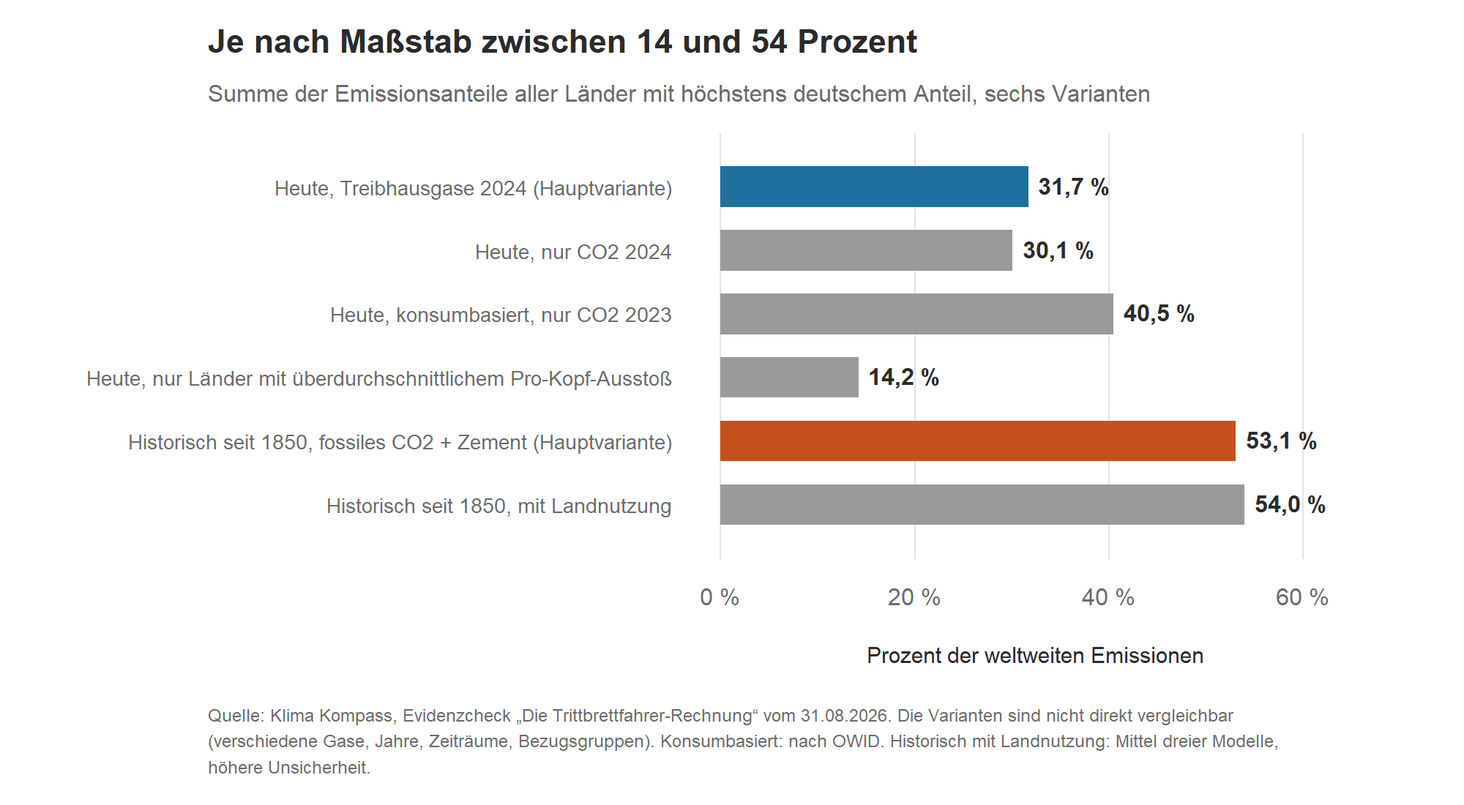
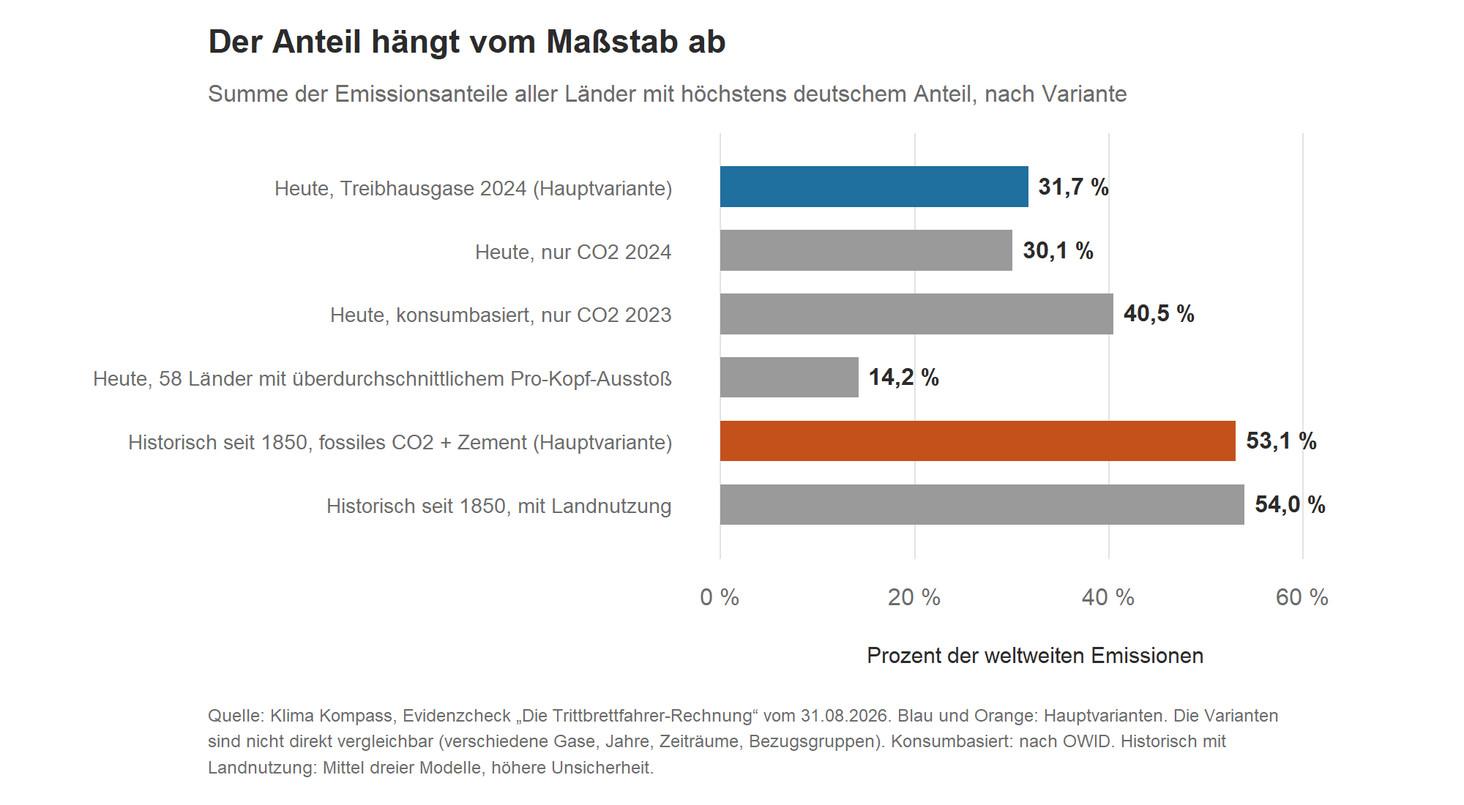
Jahrbuch 2026: Faktencheck Kapitel 5 (ok mit Auflagen, 9 Auflagen), Kapitel 5 v0.2 mit allen Auflagen, Grafiken angepasst
Nachpruefung ausstehend.

diff --git a/Publikationen-oeffentlich/jahrbuch-2026/pruefung/faktencheck_kap05.md b/Publikationen-oeffentlich/jahrbuch-2026/pruefung/faktencheck_kap05.md
@@ -1,0 +1,214 @@
+# Faktencheck Kapitel 5 (Jahrbuch 2026): „Ist Deutschland ‚zu klein, um zu zählen‘?“
+
+**Geprüfte Datei:** `Publikationen-oeffentlich/jahrbuch-2026/kapitel/05-zu-klein.md` (Entwurf v0.1, 23.10.2026). Nicht verändert. Zeilenangaben „Z.“ beziehen sich auf diese Fassung (Herkunftstabelle ab Z. 80 ist nicht Buchtext).
+**Geprüfte Grafiken:** `grafiken/kap05_grafik1_konzentrationskurve.png`, `grafiken/kap05_grafik2_varianten.png` (als Bilder gelesen) und `grafiken/kap05_grafiken.R`.
+**Prüfdatum:** 23.10.2026
+**Prüfer:** Subagent `faktenpruefer` (unabhängig, nicht Autor des Entwurfs)
+**Dieses Dokument enthält keinen Freigabevermerk.** Gate laut `kapitelplan.md` Abschnitt 5: volle Faktencheck-Datei für „Kurz gesagt“, „Was heißt das für dich?“, „Lagen wir richtig?“; Differenzprüfung für den Haupttext. Regel: keine neue Berechnung, keine neue Inferenz; der Stil darf nichts verändern, verstärken oder abschwächen (`stilregeln.md`).
+**Stufe der Ausgangsstücke:** [1] ist ein Evidenzcheck (SAP v1.0 eingefroren 31.08.2026, Validierung mit Nachkontrolle „FREIGABE“), [2] eine Einordnung (Faktencheck `Reports/2026-10-19-cop31-trittbrettfahrer/faktencheck.md`, Endstand „ok, keine Restauflagen“).
+
+## 1. Geprüfte Quellen und Zugriff
+
+| Quelle | Zugriff | Ergebnis |
+|---|---|---|
+| [1] „Die Trittbrettfahrer-Rechnung …“, Referenzfassung `quellen-artikel/2026-08-31_die-trittbrettfahrer-rechnung-was.html` (Abruf 22.10.2026) | gelesen (vollständig) | Abgleich vollständig; keine Korrektur- oder Aktualisierungsnotiz in der Referenzfassung |
+| [2] „COP31: Ist Deutschland ‚zu klein, um zu zählen‘?“, Referenzfassung `quellen-artikel/2026-10-19_cop31-ist-deutschland-zu-klein-um.html` | gelesen (vollständig) | Abgleich vollständig |
+| `Analysen/2026-08-trittbrettfahrer-rechnung/output/`: `estimand1a_konzentrationskurve_edgar_2024.csv` (Zeilen 1–30 und 200–210), `estimand2_kernzahlen.csv`, `estimand3_pro_kopf.csv`, `sensitivitaeten_1_2_3.csv`, `sensitivitaet4_rank_sensitivity.csv` | gelesen | 208 Länder (Rang 208, kumuliert 1); Rang 12 = DEU, Anteil 1,3007 %, kumuliert 69,64 %; kumuliert bis Rang 11 = 68,34 %; Kernzahlen 1,3/12/208/31,7 und 5,3/4/214/53,1; Pro-Kopf 14,2 % (Welt), 21,0 % (Teilmenge, Rang 8 von 58); S1 1,5/30,1; S2 2,1/40,5; S3 3,5/54,0; Rangplatz-Tabelle 30,0/41,4/69,6/79,5/86,0 und 24,2/24,2/52,1/75,4/85,1 |
+| `run_log.txt` (Analyselauf 31.08.2026) | gelesen (vollständig) | 1,3007 %, Rang 12 von 208, 197 von 208 Ländern ≤ DE; OWID-Abweichung 0,089 Punkte; Pro-Kopf 8,07/6,36, 58 von 195; Weltsumme = Summe der 208 Länder, ohne internationalen Luft- und Seeverkehr (2,62 % der Ländersumme) |
+| `Validierungsbericht.md` (Erstprüfung) und `Validierungsbericht_Nachkontrolle.md` | gelesen (vollständig) | Konverter-Fehler betraf 2b, S2, S3, S4 (2b-Teil); Nachkontrolle „FREIGABE“; 35,3 % (falsch), 59,1 % (Teilkorrektur), 53,1 % (final) |
+| `rohdaten/DATENAUFBEREITUNG_LOG.txt` (Zeilen 1–80) | gelesen (Anfang) | Konverter-Korrektur dokumentiert; EDGAR „2025 GHG booklet“ mit URL |
+| `Reports/2026-10-19-cop31-trittbrettfahrer/faktencheck.md` | gelesen (vollständig) | Frühere Prüfung von [2]; entfernte Inferenzen („vor allem …“, „bliebe unberührt“, „kaum“, „häufig“, „meist“) |
+| GitHub `Analysen/2026-08-trittbrettfahrer-rechnung` (Commit-Liste) | WebFetch 23.10.2026 | letzter Commit 31.08.2026 („Substack-Entwurf überarbeitet“); danach keine Änderung |
+| Quelle [3] Helmholtz-Klima-Initiative | WebFetch 23.10.2026 | Titel stimmt; „zuletzt aktualisiert: April 2021“; „Alle CO2-Angaben … beziehen sich … auf das Jahr 2017“; Zwei-Prozent-Rechnung formuliert über Treibhausgas-Emissionen (Welt: „deutlich über 35 Milliarden Tonnen“), Datenjahr dort nicht angegeben |
+| Quelle [4] WirtschaftsWoche | WebFetch 23.10.2026 | Titel und Datum 24.02.2026 stimmen; CO₂ 2024: „Anteil von 1,46 Prozent“ (579,9 Mt, EDGAR); THG 2024: „globalen Anteil von 1,27 Prozent“ (0,67 Gt CO₂-Äq.) |
+| Quelle [6] UNFCCC Overview Schedule (PDF) | WebFetch 23.10.2026 | „UN Climate Change Conference - Antalya“, sessional period 9.–20.11.2026, pre-sessional 2.–8.11.2026; Stand 7.10.2026; Zeitplan laut Dokument vorläufig |
+| EDGAR, Global Carbon Project, Weltbank, OWID (Primärdaten) | nicht direkt geöffnet | nur über CSV, run_log und Validierungsberichte abgedeckt |
+
+## 2. Tabelle der Behauptungen
+
+Legende: bestätigt / Abweichung / nicht prüfbar / kritisch. Im Zweifel „Abweichung“. A-Nummern verweisen auf die Auflagen in Abschnitt 4, E-Nummern auf die Empfehlungen in Abschnitt 5.
+
+### 2.1 Kurz gesagt (Z. 5)
+
+| Nr. | Behauptung | Quelle | Ergebnis | Hinweis |
+|---|---|---|---|---|
+| 1 | „Deutschland verursachte 2024 rund 1,3 Prozent der weltweiten Treibhausgasemissionen (Rang 12 von 208).“ | [1], [2], CSV (1,3007 %), run_log | bestätigt | Die „Weltsumme“ ist die Summe der 208 Länder ohne internationalen Luft- und Seeverkehr (run_log: zusammen 2,62 % der Ländersumme). Das steht in [1] nicht. E1. |
+| 2 | „alle Länder, deren Anteil so klein oder kleiner ist, kommen zusammen auf fast ein Drittel der weltweiten Emissionen (31,7 Prozent).“ | [1], [2], CSV (1 − 0,6834 = 31,7 %), run_log (197 von 208) | bestätigt | „fast ein Drittel“ ist reine Rundung von 31,7 %. |
+| 3 | „Würden sie alle sagen „wir sind zu klein, um zu zählen“, fiele dieses Drittel gemeinsam darunter.“ | [2] (wörtlich) | bestätigt | Gedecktes Gedankenexperiment; keine Wirkungsbehauptung. |
+| 4 | „Das ist ein Gedankenexperiment und keine Schuldfrage.“ | [1], [2] („Keine Schuldfrage“, „Gedankenexperiment“) | bestätigt | |
+
+### 2.2 Das Argument (Z. 9–11)
+
+| Nr. | Behauptung | Quelle | Ergebnis | Hinweis |
+|---|---|---|---|---|
+| 5 | „In der deutschen Klimadebatte taucht immer wieder dasselbe Argument auf …“ | [1] („taucht immer wieder ein bestimmtes Argumentmuster auf“), [2] | bestätigt | „dasselbe“ statt „ein bestimmtes Argumentmuster“ ist unkritisch. Häufigkeit wird in [1] ausdrücklich nicht untersucht; „immer wieder“ steht wortgleich in [1]/[2]. |
+| 6 | „Wer das wann sagt, haben wir nicht untersucht. Wir nennen weder Personen noch Parteien.“ | [1] („dazu wurden keine Daten erhoben, … keine Personen, Parteien oder Organisationen benannt“) | bestätigt | Das Kapitel nennt später Organisationen (Helmholtz, WiWo) als Quellen, nicht als Urheber des Arguments; kein Widerspruch. |
+| 7 | „Wenn ein kleiner Anteil ein Grund ist, nichts zu tun: Was passiert, wenn alle Länder … dieselbe Logik anwenden? Wie viel der weltweiten Emissionen fiele dann gemeinsam unter „zu klein, um zu zählen“?“ | [1], [2] („Die Frage dahinter“) | bestätigt | |
+
+### 2.3 Die Rechnung (Z. 15–26)
+
+| Nr. | Behauptung | Quelle | Ergebnis | Hinweis |
+|---|---|---|---|---|
+| 8 | „… in der „Trittbrettfahrer-Rechnung“ vom 31. August 2026 durchgerechnet, mit vorab festgelegtem Analyseplan und unabhängiger Validierung [1].“ | [1], [2], run_log (SAP v1.0 eingefroren 31.08.2026), Validierungsberichte, GitHub-Commits | bestätigt | |
+| 9 | „… zwei Zeithorizonte getrennt betrachtet. Beide sind gleichrangig“ | [1] | bestätigt | |
+| 10 | „Heute: … Treibhausgasemissionen des Jahres 2024 liegt Deutschland laut der EU-Datenbank EDGAR bei 1,3 Prozent, auf Rang 12 von 208 Ländern.“ | [1], CSV `estimand2_kernzahlen.csv` | bestätigt | |
+| 11 | „Alle Länder mit einem Anteil von höchstens 1,3 Prozent kommen zusammen auf 31,7 Prozent der weltweiten Jahresemissionen.“ | [1], [2], CSV | bestätigt | Schwelle ist der ungerundete deutsche Anteil (1,3007 %); Mexiko (Rang 11, 1,325 %) rundet ebenfalls auf 1,3 und ist nicht enthalten. Die Kurzform „höchstens 1,3 Prozent“ steht so in [1] und [2]. E2. |
+| 12 | „Historisch: … seit 1850 aufsummierten CO₂-Emissionen aus fossilen Brennstoffen und Zement (Global Carbon Project), liegt Deutschland mit 5,3 Prozent auf Rang 4 von 214. Alle Länder bis zu diesem Anteil kommen zusammen auf 53,1 Prozent.“ | [1], [2], CSV (5,3 / 4 / 214 / 53,1), Nachkontrolle | bestätigt | 53,1 % ist der nach dem Konverter-Fix validierte Wert (nicht 35,3 % oder 59,1 %). |
+| 13 | „Die beiden Zahlen … sind nicht direkt vergleichbar … (alle Treibhausgase gegen nur CO₂ aus fossilen Quellen und Zement) und verschiedenen Zeiträumen (ein Jahr gegen 175 Jahre). Keine von beiden ist „die“ Kernzahl.“ | [1] (Hinweis zur Vergleichbarkeit) | bestätigt | |
+| 14 | Grafik-1-Bildunterschrift: „Alle 208 Länder, absteigend nach Emissionsanteil sortiert, mit dem kumulierten Anteil. Deutschland (Rang 12) ist markiert.“ | CSV (208 Zeilen, Rang 12 = DEU), Skript `stopifnot` | bestätigt | Siehe Grafikprüfung G1–G6. |
+| 15 | „Die eigentliche Hauptaussage der Analyse ist nicht eine einzelne Prozentzahl, sondern diese Kurve. Deutschlands Position ist darin markiert, aber nicht besonders behandelt.“ | [1] („nicht methodisch privilegiert“) | bestätigt | |
+| 16 | „Dass wir die Grenze genau bei Deutschland ziehen, ergibt sich aus der Debatte, nicht aus einem statistischen Kriterium.“ | [1], [2] | bestätigt | |
+
+### 2.4 Wie empfindlich das Ergebnis ist (Z. 30–41)
+
+| Nr. | Behauptung | Quelle | Ergebnis | Hinweis |
+|---|---|---|---|---|
+| 17 | „Verschiebt man die Grenze um wenige Ränge, ändert sich die Summe deutlich. Das Bild … ist deshalb kein festes Ergebnis. Es hängt davon ab, wo man die Linie zieht.“ | [1] (Rangplatz-Sensitivität), [2]; `sensitivitaet4_rank_sensitivity.csv` | bestätigt | Gedeckt: kumulierter Anteil der größten Emittenten bei Rang DE: 69,6 %, bei DE+10 (Rang 22): 79,5 %, bei DE+20 (Rang 32): 86,0 %; historisch 52,1 / 75,4 / 85,1 %. „Wenige Ränge“ meint in der Tabelle 10 bzw. 20 Ränge; die Untergrenzen DE−10/−20 sind durch Rang 1 abgeschnitten (2a: Rang 1 und 2; 2b: beide Rang 1). Die Tabelle zeigt den Anteil der **größten** Emittenten, die Übertragung auf die „Summe der kleinen Länder“ ist die von [1]. Das Kapitel nennt keine Zahlen (E3). |
+| 18 | „Dazu kommen Varianten, die wir vorab festgelegt haben [1]“ | [1] („alle vorab im SAP festgelegt“); run_log | bestätigt | Die Pro-Kopf-Rechnung ist im SAP ein eigener Estimand (Abschn. 2), keine Sensitivität; „Variante“ ist unscharf, aber vorab festgelegt. |
+| 19 | Grafik-2-Bildunterschrift: „Die Varianten sind nicht direkt vergleichbar (verschiedene Gase, Jahre, Zeiträume).“ | [1] | Abweichung (gering) | Die Grafik selbst nennt zusätzlich „Bezugsgruppen“; die Bildunterschrift im Buch nicht. Die Pro-Kopf-Variante hat eine andere Bezugsgruppe (A6). |
+| 20 | „Nur CO₂ statt aller Treibhausgase (2024): Deutschlands Anteil liegt bei 1,5 Prozent, alle Länder bis dahin kommen auf 30,1 Prozent (statt 31,7).“ | [1], [2], CSV (S1: 1,5 / 30,1), run_log (1,5134 %, Rang 10) | bestätigt | |
+| 21 | „Konsumbasiert statt produktionsbasiert (CO₂, 2023): … Deutschlands Anteil liegt dann bei 2,1 Prozent, alle Länder bis dahin kommen auf 40,5 Prozent. Diese Werte sind nicht direkt vergleichbar mit den 31,7 Prozent, weil Gase und Jahr abweichen.“ | [1], [2], CSV (S2: 2,1 / 40,5), run_log (OWID, 2023, 120 Länder) | bestätigt | Basis nur 120 Länder mit Wert (steht in [1] nicht; kein Fehler). Die Erklärung „Emissionen dort, wo die Güter verbraucht werden“ entspricht [1]/[2]. |
+| 22 | „Historisch mit Landnutzung: … (Mittel dreier Modelle), liegt Deutschlands Anteil bei 3,5 Prozent und die Summe bei 54,0 Prozent (statt 53,1). Diese Teilkomponente ist modellunsicherer.“ | [1] („Mittel dreier GCP-Modelle … höhere Modellunsicherheit“), CSV (S3: 3,5 / 54,0) | bestätigt | Der automatisierte Plausibilitätscheck greift bei den LULUCF-Dateien nicht (Nachkontrolle, Punkt 2); die Zahl wurde unabhängig nachgerechnet. Nicht-Geprüftes, Abschnitt 6. |
+| 23 | „Pro Kopf: Deutschland hat mit 8,07 Tonnen CO₂-Äquivalent pro Person (2024) einen höheren Pro-Kopf-Ausstoß als der weltweite Durchschnitt (6,36 Tonnen).“ | [1], [2], run_log | bestätigt | |
+| 24 | „Um nicht mit einkommensschwachen Ländern zu vermischen, haben wir die Rechnung nur für die 58 Länder durchgeführt, die pro Kopf über dem Durchschnitt liegen.“ | [1] („zusätzlich auf die Teilmenge … beschränkt“; 58 von 195 mit Pro-Kopf-Wert) | bestätigt | „nur“ statt „zusätzlich“: Es ist eine zusätzliche Rechnung, nicht die einzige. Im Zusammenhang unkritisch; die Hauptrechnung steht oben. Die 195 (13 Länder ohne Bevölkerungswert, 0,74 % der Emissionen) sind im Kapitel nicht genannt. |
+| 25 | „Dort steht Deutschland auf Rang 8.“ | [1], run_log (1,92 % der Teilmenge, Rang 8 von 58) | bestätigt | |
+| 26 | „Die Länder dieser Gruppe mit einem Anteil bis zum deutschen kommen auf 14,2 Prozent der weltweiten Emissionen.“ | [1], [2], CSV (14,2 % der Weltsumme; 21,0 % der Teilmenge) | bestätigt | Korrekt als Anteil an der Weltsumme bezeichnet. Der Anteil an der Teilmenge (21,0 %) ist weggelassen (kein Fehler). Bezugsgruppe ≠ übrige Varianten (A6). |
+
+### 2.5 Warum anderswo andere Zahlen stehen (Z. 45)
+
+| Nr. | Behauptung | Quelle | Ergebnis | Hinweis |
+|---|---|---|---|---|
+| 27 | „Oft liest man „rund zwei Prozent“.“ | [3] nennt die Zahl in der Überschrift; keine Häufigkeitsbelege | Abweichung | „Oft“ ist eine Häufigkeitsbehauptung ohne Beleg. Der Faktencheck zu [2] hatte „häufig“/„meist“ beanstandet und beide Wörter wurden gestrichen; hier sind sie in anderer Form wieder da. A2. |
+| 28 | „Die Helmholtz-Klima-Initiative prüft diese Behauptung auf Basis von Daten, die laut der Seite aus dem Jahr 2017 stammen (Stand April 2021) [2][3].“ | [3] (Abruf 23.10.2026); [2] | Abweichung (gering) | Stand April 2021 bestätigt. „2017“ nennt die Seite nur für die **CO₂-Angaben**; die Zwei-Prozent-Rechnung ist als Treibhausgas-Anteil formuliert, deren Datenjahr nicht angegeben ist (Faktencheck zu [2], Nachtrag 2: „überwiegend“ oder „laut Seite“). A2. |
+| 29 | „Die WirtschaftsWoche nennt für 2024 einen CO₂-Anteil von 1,46 Prozent, für alle Treibhausgase dagegen 1,27 Prozent [4].“ | [4] (Abruf 23.10.2026), [2] | bestätigt | Beide Werte, Jahr und Titel/Datum stimmen. |
+| 30 | „In unserer Rechnung liegt der deutsche Anteil bei reinem CO₂ bei 1,5 Prozent, mit allen Treibhausgasen bei 1,3.“ | [1], [2], CSV | bestätigt | |
+| 31 | „Die Unterschiede kommen von verschiedenen Jahren und Gasen [1][2][3][4].“ | – (Herkunftstabelle: „Schluss aus den Quellenangaben, zu prüfen“) | Abweichung | Neue Ursachenzuschreibung, nicht in [1]–[4]. Gegenbefund: WiWo (1,46 / 1,27) und unsere Zahlen (1,5 / 1,3) beziehen sich auf **dasselbe Jahr (2024)**; die Werte stimmen nach Rundung überein (1,46 → 1,5; 1,27 → 1,3). Der Unterschied zu „rund zwei Prozent“ ist mit veröffentlichten Ergebnissen nicht zerlegbar (Datenjahr der THG-Basis bei Helmholtz unbekannt, Rechnung teils mit anderem Zähler). Genau diese Ursachengewichtung wurde im Faktencheck zu [2] (Nachtrag 1, N1) als neue Inferenz beanstandet und gestrichen. A1. |
+
+### 2.6 Was die Zahlen nicht sagen (Z. 49–51)
+
+| Nr. | Behauptung | Quelle | Ergebnis | Hinweis |
+|---|---|---|---|---|
+| 32 | „Keine Schuldfrage. Die Rechnung ist ein Gedankenexperiment. Sie sagt nichts darüber, welches Land wie viel Verantwortung trägt oder was fair wäre. Sie bewertet auch nicht, ob ein hoher oder niedriger Anteil an Klimapolitik, Wirtschaftsstruktur, Bevölkerungszahl oder am Zufall der Ländergrenzen liegt [1].“ | [1] („Was diese Zahlen nicht bedeuten“), [2] | bestätigt | |
+| 33 | „Produktion, nicht Konsum. Die Hauptzahlen zählen Emissionen dort, wo sie entstehen.“ | [1], [2] | bestätigt | |
+| 34 | „Für Länder mit hohen Importen emissionsintensiver Güter kann die konsumbasierte Zahl spürbar höher liegen, wie die Variante oben zeigt [1].“ | [1] („kann … spürbar höher liegen (siehe Sensitivität unten)“) | Abweichung | [1] verweist auf die Sensitivität, sagt aber nicht, dass sie es „zeigt“. Die Variante ist laut dem Kapitel selbst „nicht direkt vergleichbar“ (andere Gase, anderes Jahr, 120 Länder, OWID); ein Beleg für „spürbar höher“ ist sie damit nicht. A7. |
+| 35 | „Nichts zur COP31. Vom 9. bis 20. November 2026 findet im türkischen Antalya die UN-Klimakonferenz COP31 statt [6].“ | [6] (geöffnet), [2] | bestätigt (Stand 7.10.2026) | Der Zeitplan ist laut Dokument vorläufig. Das Buch erscheint am 1.12.2026, nach dem Konferenzende: Zeitform und Stand (A8, E5). |
+| 36 | „Was dort verhandelt wird und welche Zusagen die Staaten machen, beantwortet diese Rechnung nicht [2].“ | [2] („Nichts zur COP31 selbst“) | bestätigt | |
+
+### 2.7 Was heißt das für dich? (Z. 55–57)
+
+| Nr. | Behauptung | Quelle | Ergebnis | Hinweis |
+|---|---|---|---|---|
+| 37 | „Ein Anteil in Prozent lässt sich erst einordnen, wenn klar ist, worauf er sich bezieht: auf welches Jahr, auf welche Gase und darauf, ob Emissionen dort gezählt werden, wo sie entstehen, oder dort, wo die Güter verbraucht werden.“ | [1] (Vergleichbarkeitshinweise), Gliederung | bestätigt | Beschreibend, in den Quellen angelegt (Jahr, Gasbasis, produktions-/konsumbasiert). |
+| 38 | „Wer Prozentzahlen aus verschiedenen Quellen vergleicht, sollte prüfen, ob sie auf derselben Basis stehen.“ | [1] | bestätigt | |
+| 39 | „Hinter „zwei Prozent“, „1,5 Prozent“ und „1,3 Prozent“ stecken keine Widersprüche, sondern verschiedene Maßstäbe.“ | – | Abweichung | Neue Feststellung. „Zwei Prozent“ (Helmholtz) und „1,5 Prozent“ (nur CO₂, 2024, unsere Variante bzw. WiWo-CO₂-Wert) sind nach den Quellen nicht auf Maßstabsunterschiede zurückgeführt (Nr. 31). „Keine Widersprüche“ ist eine Wertung, die kein Beleg trägt (zum Beispiel ist die Gasbasis bei Helmholtz uneinheitlich). A1. |
+| 40 | „„Zu klein, um zu zählen“ funktioniert als Argument nur, solange es nicht alle sagen. Ob ein einzelner Anteil zählt, hängt auch davon ab, wie viele andere in derselben Lage sind. Ob daraus eine Pflicht zum Handeln folgt, beantwortet die Rechnung nicht.“ | [2] (Fazit: „Unser Gedankenexperiment legt nahe: ‚Zu klein, um zu zählen‘ funktioniert nur, solange es nicht alle sagen. … Ob ein einzelner Anteil zählt, ist deshalb auch eine Frage danach, wie viele andere in derselben Lage sind.“) | Abweichung | Gegenüber [2] fehlt die Kennzeichnung als Deutung („Unser Gedankenexperiment legt nahe:“); der Faktencheck zu [2] (#24) hatte genau diese Kennzeichnung verlangt. Zusätzlich neu: „als Argument“ und „Pflicht zum Handeln“ (in [1]/[2] nicht vorhanden, [1] bewertet kein Handeln und keine Verantwortung). Der Satz bewertet in „Was heißt das für dich?“ ein politisches Argument. A3. |
+
+### 2.8 Lagen wir richtig? (Z. 61–63)
+
+| Nr. | Behauptung | Quelle | Ergebnis | Hinweis |
+|---|---|---|---|---|
+| 41 | „Seit der Veröffentlichung am 31. August haben wir keine Änderungen an den Kernzahlen vorgenommen.“ | GitHub-Commit-Liste (letzter Commit im Ordner 31.08.2026), Referenzfassung [1] vom 22.10. ohne Korrekturhinweis, CSV | bestätigt | Belegt über die öffentliche Commit-Liste des Analyseordners und den unveränderten Artikeltext (WebFetch-Zusammenfassung, kein `git diff`). |
+| 42 | „Neuere EDGAR- oder GCP-Daten nennen wir nur mit Quelle und Datum und rechnen sie nicht neu.“ | Gliederung, Kapitelplan Abschn. 4 | bestätigt | Selbstverpflichtung; ob neuere EDGAR-/GCP-Veröffentlichungen vorliegen, wurde nicht geprüft (Abschnitt 6). |
+| 43 | „Die unabhängige Validierung fand in der ersten Prüfrunde einen kritischen Fehler in einem Datenkonverter.“ | [1] (Methodik-Box), `Validierungsbericht.md` | bestätigt | |
+| 44 | „Er führte zu einem falschen Zwischenwert für die historische Kernzahl.“ | [1] („führte zu einem falschen Zwischenwert für die historische Kernzahl“); `Validierungsbericht.md`, `DATENAUFBEREITUNG_LOG.txt` | Abweichung (gering) | Wortgleich zu [1], aber unvollständig: Laut Validierungsbericht und Provenienz-Log waren **auch** die konsumbasierte Variante, die Landnutzungsvariante und der historische Teil der Rangplatz-Rechnung betroffen. Der falsche Wert 35,3 % wurde nie veröffentlicht (Nachkontrolle: 59,1 % war nur Zwischenschätzung des Validators). A4. |
+| 45 | „Nach der Korrektur wurden alle Kernzahlen unabhängig neu berechnet und bestätigt.“ | [1] (wortgleich); Nachkontrolle | Abweichung (gering) | Nachkontrolle: 2b (53,1 %) und S3 (54,0 %) und der 2b-Teil von S4 unabhängig aus den Roh-CSV nachgerechnet; S2 (konsumbasiert) reproduziert; 1a/2a, Estimand 3, S1, S6 waren bereits in der Erstprüfung unabhängig validiert und unverändert. „Alle … nach der Korrektur neu berechnet“ trifft nur für die betroffenen Werte zu. A4. |
+| 46 | „Das ist keine nachträgliche Korrektur, zeigt aber, was die Prüfung leistet (mehr dazu in Kapitel 8).“ | – (Herkunftstabelle: „neu“) | Abweichung | „keine nachträgliche Korrektur“ ist richtig (Fund vor Veröffentlichung). „zeigt, was die Prüfung leistet“ ist eine Selbstbewertung ohne Beleg; Verweis auf Kapitel 8 nicht gegen Kapitel 8 prüfbar. A4. |
+| 47 | „COP31: Unsere Stücke machen keine Vorhersage zur Konferenz.“ | [1], [2] | bestätigt | |
+| 48 | „Einen Ergebnisblock nehmen wir nur auf, wenn bis zum 15. November eine belastbare Primärquelle vorliegt und der Text die Faktenprüfung besteht.“ | Gliederung Kap. 5, Entscheidung 2 (22.10.) | Abweichung | Interne Redaktionsregel, kein Buchtext. Außerdem sachlich schwer haltbar: Der 15.11. liegt mitten in der Konferenz (9.–20.11., [6]); ein Ergebnis kann dann nicht vorliegen. A8. |
+
+### 2.9 Woher wir das wissen und Quellenliste (Z. 67–76)
+
+| Nr. | Behauptung | Quelle | Ergebnis | Hinweis |
+|---|---|---|---|---|
+| 49 | „Aktuelle Jahresemissionen: EDGAR (… EU JRC), 2024, alle Treibhausgase in CO₂-Äquivalenten, 208 Länder.“ | [1] (Methodik-Box), run_log | bestätigt | |
+| 50 | „Kumulierte historische Emissionen: Global Carbon Project / Global Carbon Budget, territoriale fossile CO₂-Emissionen inklusive Zement, 1850–2024, 214 Länder.“ | [1], run_log | bestätigt | |
+| 51 | „Bevölkerung: Weltbank (World Development Indicators), 2024.“ | [1] | bestätigt | |
+| 52 | „Our World in Data nur als Sekundärquelle zur Kreuzprüfung des EDGAR-Ausgangswerts (Abweichung 0,089 Prozentpunkte) und für die konsumbasierte Variante.“ | [1], run_log (OWID 1,2119 % gegen EDGAR 1,3007 %) | bestätigt | |
+| 53 | „Zugriffsdatum aller Rohdaten: 31. August 2026.“ | [1], run_log, Provenienz-Log | bestätigt | |
+| 54 | „Die Analyse ist deskriptiv: keine p-Werte, keine Konfidenzintervalle. Sie deckt nahezu alle Länder ab. Die Robustheit zeigen die Varianten oben.“ | [1] | bestätigt | |
+| 55 | „Analyseplan, R-Skript, Rohdaten-Aufbereitungslog, alle Tabellen und Grafiken sowie beide Validierungsberichte liegen offen im Repository: `Analysen/2026-08-trittbrettfahrer-rechnung/` auf github.com/dsaure55/klima-evidenzcheck.“ | [1], GitHub (Commit-Liste: SAP, Analyse, Validierung, Nachkontrolle sichtbar) | bestätigt | |
+| 56 | Quelle [1]: Titel, Datum 31.08.2026, URL | [1] Referenzfassung (Titel, Slug) | bestätigt | Linkziel anhand der Referenzfassung (Abruf 22.10.2026, Titel und post_date) abgeglichen. |
+| 57 | Quelle [2]: „COP31: Ist Deutschland ‚zu klein, um zu zählen‘?“, 19.10.2026, URL | [2] Referenzfassung | bestätigt | |
+| 58 | Quelle [3]: Helmholtz-Klima-Initiative / klimafakten, Titel der Behauptung, „laut Seite Daten 2017, Stand April 2021“, URL | [3] geöffnet | bestätigt (mit Vorbehalt) | Titel und Stand stimmen; „Daten 2017“ gilt nur für die CO₂-Angaben (siehe Nr. 28). |
+| 59 | Quelle [4]: WirtschaftsWoche, Titel, 24.02.2026, URL | [4] geöffnet | bestätigt | |
+| 60 | Quelle [5]: Sammelzeile „EDGAR …; Global Carbon Project …; Weltbank …; Our World in Data (Zugriff 31.08.2026, wie in [1])“ | Provenienz-Log (z. B. EDGAR 2025 GHG booklet, URL) | Abweichung | Keine Ausgabe/Edition, keine Links. Das Provenienz-Log nennt Edition und URL (z. B. „EDGAR 2025 GHG booklet“, https://edgar.jrc.ec.europa.eu/booklet/EDGAR_2025_GHG_booklet_2025.xlsx). Als Verweis „wie in [1]“ nachvollziehbar, als eigenständige Quelle nicht ausreichend. A9. |
+| 61 | Quelle [6]: UNFCCC, COP 31 Overview Schedule, Antalya, 9.–20.11.2026, URL | [6] geöffnet | bestätigt | Dokumentstand 7.10.2026, vorläufig. E5. |
+
+## 3. Grafiken
+
+Geprüft: beide PNG als Bild, das R-Skript und die zugehörigen CSV. Grafik 1 liest die CSV direkt (208 Zeilen, `stopifnot(nrow == 208, code[12] == "DEU")`), Grafik 2 hat die sechs Werte fest eingetragen. Das Skript enthält keine Rechnung außer `cum11 = cum_share[11] × 100`.
+
+| Nr. | Punkt | Befund | Ergebnis | Hinweis |
+|---|---|---|---|---|
+| G1 | Grafik 1: Daten | Alle 208 Länder, absteigend; Kurve beginnt bei etwa 30 % (China 29,97 %) und endet bei 100 % (Rang 208 = 1) | bestätigt | Gegen CSV geprüft (erste und letzte Zeilen, Zeilenzahl). |
+| G2 | Grafik 1: „Deutschland: Rang 12, Anteil 1,3 %“ | Rang 12 = DEU, 1,3007 %, kumuliert 69,64 % (Punkt liegt bei ~69,6 %) | bestätigt | Die Aussage ist korrekt. |
+| G3 | Grafik 1: Linie „Die 11 größten Länder: 68,3 %. Deutschland und alle kleineren zusammen: 31,7 %“ | kumuliert bis Rang 11: 68,34 %; 100 − 68,34 = 31,66 → 31,7 %, identisch mit der Kernzahl 2a (Summe aller Länder mit Anteil ≤ DE, inkl. DE; 197 von 208 Ländern) | Abweichung (gering) | Rechnerisch richtig (das Ergebnis ist 1 − Kumulation bis Rang 11 = Kernzahl). Aber: (a) **68,3 %** steht weder in [1] noch in [2] (in [1] steht 69,6 % für Rang 12 inkl. Deutschland); die Bildunterschrift sagt „keine neue Rechnung“, die Zahl ist eine neue Darstellung einer CSV-Spalte. (b) Der Punkt Deutschland liegt bei ~69,6 %, die gestrichelte Linie bei 68,3 %, also sichtbar darunter, ohne Erklärung; Leser könnten einen Fehler oder die falsche Linie vermuten. A5. |
+| G4 | Grafik 1: Titel „Länder so klein wie Deutschland oder kleiner: fast ein Drittel“ | 31,7 % | bestätigt | Rundung „fast ein Drittel“ wie in [2]. |
+| G5 | Grafik 1: Achse „Kumulierter Anteil an den weltweiten Emissionen (%)“, Jahr, Gase, Quelle, Hinweis „Produktionsbasiert“, „Gedankenexperiment, keine Schuldfrage“ | Titel, Einheit, Datenstand (2024), Quelle vorhanden | bestätigt | Regel „Titel, Einheit, Datenstand, Quelle“ erfüllt. „weltweit“ = Summe der 208 Länder ohne Luft-/Seeverkehr (E1). „CO2“ statt „CO₂“ (E6). |
+| G6 | Grafik 2: Werte | 31,7 / 30,1 / 40,5 / 14,2 / 53,1 / 54,0 | bestätigt | Alle sechs Werte stimmen mit CSV, [1] und Kapitel überein. Balkenlängen proportional (Achse 0–60 %). |
+| G7 | Grafik 2: Beschriftung „Heute, nur Länder mit überdurchschnittlichem Pro-Kopf-Ausstoß“ = 14,2 % | 14,2 % ist der Anteil an den **weltweiten** Emissionen (Teilmenge: Länder mit Anteil ≤ DE **innerhalb** der 58 Länder); Anteil an der Teilmenge: 21,0 % | Abweichung | Die Zahl ist richtig (14,2 % der Welt), die Balkenbeschriftung nennt aber nur die Gruppe, nicht dass nur Länder aus dieser Gruppe mit höchstens deutschem Anteil gezählt sind. Untertitel „aller Länder mit höchstens deutschem Anteil“ stimmt für diesen Balken nicht ohne Zusatz (die Länder außerhalb der Gruppe sind ausgeschlossen). A6. |
+| G8 | Grafik 2: Farben | Blau = Hauptvariante „heute“, Orange = Hauptvariante „historisch“, Grau = weitere Varianten; erklärt nur über den Zusatz „(Hauptvariante)“ in den Zeilenbeschriftungen | bestätigt (mit Hinweis) | Verständlich genug über die Beschriftung; kein Legendeneintrag. In Grafik 1 haben Blau und Orange eine andere Bedeutung (Deutschland, Grenze). E6. |
+| G9 | Grafik 2: Titel „Je nach Maßstab zwischen 14 und 54 Prozent“ | Spannweite aus sechs Werten mit verschiedenen Gasen, Jahren, Zeiträumen und Bezugsgruppen | Abweichung | Der Titel suggeriert eine Spannweite derselben Größe („je nach Maßstab“). [1] weist ausdrücklich darauf hin, dass die Werte nicht direkt vergleichbar sind und keine der Zahlen „die“ Kernzahl ist; die Pro-Kopf-Zahl beantwortet eine andere Frage (Teilmenge). Der Hinweis steht nur im Kleingedruckten der Quellenzeile. 14 und 54 sind außerdem Randwerte einer Auswahl, keine in [1] genannte Spanne. A6. |
+| G10 | Grafik 2: Einheit, Datenstand, Quelle | „Prozent der weltweiten Emissionen“; Quelle [1] 31.08.2026; „Konsumbasiert: nach OWID“; Landnutzung „Mittel dreier Modelle“ | bestätigt | |
+
+## 4. Auflagen (vor Freigabe zu erfüllen)
+
+**A1. Z. 45 und Z. 56: Ursachenzuschreibung für die Unterschiede („Die Unterschiede kommen von verschiedenen Jahren und Gasen“; „stecken keine Widersprüche, sondern verschiedene Maßstäbe“).** (Nr. 31, 39) Neue Inferenz. Gegenbefund: WiWo (2024: 1,46 % CO₂, 1,27 % THG) und die eigene Rechnung (2024: 1,5 % CO₂, 1,3 % THG) beziehen sich auf dasselbe Jahr und stimmen nach Rundung überein. Für „rund zwei Prozent“ (Helmholtz) ist die Ursache mit veröffentlichten Ergebnissen nicht belegbar. Der Faktencheck zu [2] hat dieselbe Gewichtung bereits beanstandet.
+Änderungsvorschlag Z. 45 (letzter Satz): streichen, Absatz endet nach „… mit allen Treibhausgasen bei 1,3.“ Alternativ: „Die Zahlen unterscheiden sich in Gasen und Jahren der Quellen; wie groß der Einfluss je Faktor ist, haben wir nicht untersucht.“
+Änderungsvorschlag Z. 56: „Die Zahlen „zwei Prozent“, „1,5 Prozent“ und „1,3 Prozent“ beziehen sich auf verschiedene Quellen, Gase und Jahre. Vergleichbar sind nur Zahlen mit derselben Basis.“ (kein „keine Widersprüche“).
+
+**A2. Z. 45 („Oft liest man „rund zwei Prozent“. Die Helmholtz-Klima-Initiative prüft … auf Basis von Daten, die laut der Seite aus dem Jahr 2017 stammen“).** (Nr. 27, 28) „Oft“ ist eine unbelegte Häufigkeitsbehauptung; die Datierung 2017 gilt laut Seite nur für die CO₂-Angaben, die Zwei-Prozent-Rechnung nennt Treibhausgas-Emissionen ohne Datenjahr.
+Änderungsvorschlag: „Die Helmholtz-Klima-Initiative nennt „rund zwei Prozent“ und prüft diese Behauptung. Ihre CO₂-Angaben beziehen sich laut Seite auf 2017 (Stand April 2021) [3].“
+
+**A3. Z. 57 (Was heißt das für dich, Punkt 3).** (Nr. 40) Gegenüber [2] fehlt die Kennzeichnung als Deutung, es kommen „als Argument“ und „Pflicht zum Handeln“ hinzu.
+Änderungsvorschlag: „Unser Gedankenexperiment legt nahe: „Zu klein, um zu zählen“ funktioniert nur, solange es nicht alle sagen. Ob ein einzelner Anteil zählt, ist auch eine Frage danach, wie viele andere in derselben Lage sind. Was daraus für das Handeln folgt, beantwortet die Rechnung nicht.“ (Letzter Satz optional, wenn „Pflicht“ entfällt.)
+
+**A4. Z. 62 (Lagen wir richtig?, Konverter-Fehler).** (Nr. 44–46)
+- Betroffene Werte vollständig nennen: Laut Validierungsbericht und Provenienz-Log waren die historische Kernzahl, die konsumbasierte Variante, die Landnutzungsvariante und der historische Teil der Rangplatz-Rechnung betroffen. Der falsche Wert (35,3 %) wurde nie veröffentlicht.
+- „alle Kernzahlen unabhängig neu berechnet“ präzisieren: nach der Korrektur wurden die betroffenen Werte unabhängig nachgerechnet bzw. reproduziert, die übrigen waren in der Erstprüfung bereits unabhängig validiert und unverändert.
+- „zeigt, was die Prüfung leistet“ streichen oder neutral fassen.
+Änderungsvorschlag: „Die unabhängige Validierung fand in der ersten Prüfrunde vor der Veröffentlichung einen kritischen Fehler in einem Datenkonverter. Er verfälschte die historische Kernzahl sowie die konsumbasierte und die Landnutzungsvariante. Der falsche Wert wurde nie veröffentlicht. Nach der Korrektur wurden die betroffenen Werte unabhängig nachgerechnet und bestätigt, die übrigen waren bereits geprüft (mehr dazu in Kapitel 8) [1].“
+
+**A5. Grafik 1: Linie und Beschriftung „Die 11 größten Länder: 68,3 %. …“.** (G3) Die Zahl 68,3 % steht nicht in [1]/[2], die Linie liegt sichtbar unter dem Deutschland-Punkt (69,6 %). Entweder die Linie auf die Kernzahl-Aussage reduzieren („Deutschland und alle kleineren Länder zusammen: 31,7 %“, mit Klammer über der Fläche unter/über der Kurve) oder die Beschriftung ergänzen: „Bis Rang 11 (vor Deutschland): 68,3 %. Mit Deutschland (Rang 12): 69,6 %. Rest: 31,7 %.“ Die Bildunterschrift „keine neue Rechnung“ gilt sonst nur eingeschränkt (Darstellung einer CSV-Spalte).
+
+**A6. Grafik 2: Titel, Untertitel, Pro-Kopf-Balken.** (G7, G9, Nr. 19) „Je nach Maßstab zwischen 14 und 54 Prozent“ legt eine Spannweite derselben Größe nahe. Änderungsvorschlag Titel: „Sechs Rechnungen mit verschiedenen Maßstäben“ (ohne Zahlenspanne) oder „Der Anteil hängt vom Maßstab ab“. Untertitel: „Summe der Emissionsanteile aller Länder mit höchstens deutschem Anteil, nach Variante; Pro-Kopf-Variante nur innerhalb der Länder mit überdurchschnittlichem Pro-Kopf-Ausstoß“. Zeilenbeschriftung: „Heute, 58 Länder mit überdurchschnittlichem Pro-Kopf-Ausstoß (Anteil an der Welt)“. Quellenzeile um „Blau und Orange: Hauptvarianten“ ergänzen. Bildunterschrift im Buch um „Bezugsgruppen“ ergänzen.
+
+**A7. Z. 50 („… wie die Variante oben zeigt [1]“).** (Nr. 34) [1] sagt nur „kann … spürbar höher liegen (siehe Sensitivität unten)“. Die Variante ist laut Kapitel selbst nicht direkt vergleichbar.
+Änderungsvorschlag: „… kann die konsumbasierte Zahl spürbar höher liegen (siehe die konsumbasierte Variante oben, die allerdings nicht direkt vergleichbar ist) [1].“
+
+**A8. COP31: Zeitform und interne Redaktionsregel (Z. 51, Z. 63).** (Nr. 35, 48) Das Buch erscheint am 1.12.2026, nach dem Ende der Konferenz (20.11.). Präsens und Futur („findet … statt“, „was dort verhandelt wird“) sind dann falsch; der Satz zum „Ergebnisblock bis 15. November“ ist eine interne Regel und widerspricht dem Konferenzzeitplan (15.11. liegt mitten in der Konferenz).
+Änderungsvorschlag: Zeitform auf den Stand zum Redaktionsschluss ausrichten, z. B. „Anlass war die UN-Klimakonferenz COP31 (9. bis 20. November 2026 in Antalya, laut UNFCCC-Zeitplan, Stand 7.10.2026) [6].“ Z. 63: „COP31: Unsere Stücke machen keine Vorhersage zur Konferenz. Was dort beschlossen wurde, beantwortet diese Rechnung nicht und ist hier nicht ausgewertet.“ Der Satz zum Ergebnisblock entfällt als Buchtext; falls ein Ergebnisblock aufgenommen wird, ist er ein neuer Text mit Primärquelle (UNFCCC) und eigener Faktenprüfung.
+
+**A9. Quelle [5] (Sammelzeile) und Datenstände.** (Nr. 60) Als eigenständige Quelle nicht ausreichend. Änderungsvorschlag: Einzelne Einträge mit Edition, Datenstand und Link, aus dem Provenienz-Log `Analysen/2026-08-trittbrettfahrer-rechnung/rohdaten/DATENAUFBEREITUNG_LOG.txt` übernehmen (z. B. EDGAR 2025 GHG booklet, https://edgar.jrc.ec.europa.eu/booklet/EDGAR_2025_GHG_booklet_2025.xlsx; analog Global Carbon Budget, Weltbank WDI, OWID). Dort ist auch die Quelle aller Zugriffe (31.08.2026) belegt.
+
+## 5. Empfehlungen (nicht bindend)
+
+- **E1.** „Weltsumme“ präzisieren: Die Rechnung bezieht sich auf die Summe der 208 Länder, ohne internationalen Luft- und Seeverkehr (zusammen 2,62 % der Ländersumme, run_log). Mit der EDGAR-Gesamtzeile wäre der deutsche Anteil etwas kleiner (der WiWo-Wert 1,27 % für alle Treibhausgase passt dazu; das ist eine Beobachtung, keine Berechnung für das Buch). Ein Satz in „Woher wir das wissen“ wäre transparent: „Weltsumme = Summe der 208 Länder, ohne internationalen Luft- und Seeverkehr.“ Er steht in [1] nicht, aber im veröffentlichten run_log.
+- **E2.** „höchstens 1,3 Prozent“ (Z. 17, Z. 5) als „höchstens so viel wie Deutschland (1,3 Prozent)“ formulieren, denn die Schwelle ist der ungerundete deutsche Anteil (Mexiko mit 1,32 % rundet ebenfalls auf 1,3 und zählt nicht dazu).
+- **E3.** Rangplatz-Sensitivität mit einem veröffentlichten Beispiel belegen, z. B. „Zehn Ränge weiter liegt der kumulierte Anteil der größten Emittenten bei 79,5 statt 69,6 Prozent [1]“ (Tabelle in [1] bzw. `sensitivitaet4_rank_sensitivity.csv`), und „wenige Ränge“ durch „zehn Ränge“ ersetzen.
+- **E4.** Z. 24: „nur für die 58 Länder“ durch „zusätzlich nur für die 58 Länder“ ersetzen (wie in [1]/[2]); optional die 195 Länder mit Bevölkerungswert nennen.
+- **E5.** COP31-Termin mit „laut UNFCCC-Zeitplan (Stand 7.10.2026, vorläufig)“ versehen.
+- **E6.** Grafiken: „CO2“ als „CO₂“ darstellen; Farbbedeutung in beiden Grafiken konsistent halten (Blau/Orange haben in Grafik 1 und 2 verschiedene Bedeutung).
+- **E7.** Z. 49: „Sie bewertet auch nicht …“ passt zu [1]; „oder am Zufall der Ländergrenzen“ ist wörtlich aus [1] (Zufall) und unproblematisch. Keine Änderung nötig; für die Stilprüfung lesbarer in zwei Sätze teilen.
+- **E8.** Z. 62: Hinweis auf Kapitel 8 gegen den fertigen Kapitel-8-Text prüfen (Konverter-Fehler dort ebenfalls aufführen).
+
+## 6. Nicht geprüft / Vorbehalte
+
+- **Primärdaten** (EDGAR 2025-Booklet, Global Carbon Budget, Weltbank WDI, OWID) nicht direkt geöffnet; Prüfung über CSV-Ausgaben, run_log, Provenienz-Log und beide Validierungsberichte. Ob inzwischen neuere EDGAR- oder GCP-Ausgaben vorliegen, wurde nicht geprüft.
+- **Die Rechnung selbst** (R-Skript, Konverter) wurde nicht neu ausgeführt; Grundlage ist der validierte Stand (Nachkontrolle: FREIGABE).
+- **LULUCF-Plausibilitätscheck:** Laut Nachkontrolle (Punkt 2) greift der automatisierte Check bei den drei LULUCF-Dateien nicht; die Zahl 54,0 % wurde unabhängig nachgerechnet. Das ist eine offene Transparenzlücke im Analyseordner, keine Abweichung im Kapitel.
+- **„Keine Änderungen seit 31.08.“:** Belegt über die Commit-Liste im öffentlichen Repo (WebFetch-Zusammenfassung) und den unveränderten Artikeltext; kein lokaler `git log`/`git diff`.
+- **Kapitel 8** (Verweis in Z. 62) nicht geprüft.
+- **Stil, Wortzahl (Ziel 1.200–1.600), Leseniveau, Rechtschreibung** nicht Teil dieser Prüfung.
+
+## 7. Was für die Freigabe noch zu erledigen ist
+
+1. A1–A9 umsetzen; danach fokussierte Nachprüfung als Nachtrag in dieser Datei (Dokumentationspflicht CLAUDE.md).
+2. Grafiken nach A5/A6/E6 anpassen, neu erzeugen und erneut als Bild prüfen.
+3. Freigabe durch Daniel Saure nach vollständiger Lektüre des aktuellen Textes (kein Freigabevermerk in dieser Datei).
+
+## Gesamturteil
+
+**ok mit Auflagen** (9 Auflagen, 8 Empfehlungen). Alle Kernzahlen (1,3 %, Rang 12 von 208, 31,7 %; 5,3 %, Rang 4 von 214, 53,1 %; 8,07/6,36 t; 58 Länder, Rang 8, 14,2 %; 30,1 %, 40,5 %, 54,0 % mit den zugehörigen deutschen Anteilen; OWID-Abweichung 0,089 Punkte; Zugriffsdatum 31.08.2026) stimmen mit [1], [2], den CSV-Dateien und dem run_log überein; beide Grafiken geben die Werte korrekt wieder. Kein Punkt ist „kritisch“. Die wesentlichen Mängel sind (1) die wieder eingeführte Ursachenzuschreibung zu den abweichenden Prozentzahlen (A1, A2), (2) die fehlende Deutungskennzeichnung in „Was heißt das für dich?“ (A3), (3) die unvollständige Darstellung des Konverter-Fehlers (A4), (4) die Grafiken: neue Zahl 68,3 % und der irreführende Titel „zwischen 14 und 54 Prozent“ (A5, A6) und (5) COP31-Zeitform und interne Redaktionsregel (A8). Keine neue Berechnung im Kapitel; neue Inferenzen: Nr. 31, 34, 39, 40, 46.
+
+*Dieses Dokument enthält keinen Freigabevermerk und ersetzt keine Freigabe durch Daniel Saure.*

diff --git a/Publikationen-oeffentlich/jahrbuch-2026/kapitel/05-zu-klein.md b/Publikationen-oeffentlich/jahrbuch-2026/kapitel/05-zu-klein.md
@@ -1,4 +1,4 @@
-**ENTWURF v0.1 (23.10.2026) – nicht geprüft, nicht freigegeben. Diese Kopfzeile, die Herkunftstabelle am Ende und die Hinweise unter den Grafiken nicht ins Buch übernehmen.**
+**ENTWURF v0.2 (23.10.2026) – Auflagen A1–A9 aus `pruefung/faktencheck_kap05.md` eingearbeitet, Nachprüfung ausstehend, nicht freigegeben. Diese Kopfzeile, die Herkunftstabelle am Ende und die Hinweise unter den Grafiken nicht ins Buch übernehmen.**
 
 # Kapitel 5 – Ist Deutschland „zu klein, um zu zählen“?
 
@@ -42,25 +42,25 @@ Dazu kommen Varianten, die wir vorab festgelegt haben [1]:
 
 ## Warum anderswo andere Zahlen stehen
 
-Oft liest man „rund zwei Prozent“. Die Helmholtz-Klima-Initiative prüft diese Behauptung auf Basis von Daten, die laut der Seite aus dem Jahr 2017 stammen (Stand April 2021) [2][3]. Die WirtschaftsWoche nennt für 2024 einen CO₂-Anteil von 1,46 Prozent, für alle Treibhausgase dagegen 1,27 Prozent [4]. In unserer Rechnung liegt der deutsche Anteil bei reinem CO₂ bei 1,5 Prozent, mit allen Treibhausgasen bei 1,3. Die Unterschiede kommen von verschiedenen Jahren und Gasen [1][2][3][4].
+Die Helmholtz-Klima-Initiative nennt „rund zwei Prozent“ und prüft diese Behauptung. Ihre CO₂-Angaben beziehen sich laut der Seite auf 2017 (Stand April 2021) [2][3]. Die WirtschaftsWoche nennt für 2024 einen CO₂-Anteil von 1,46 Prozent, für alle Treibhausgase dagegen 1,27 Prozent [4]. In unserer Rechnung liegt der deutsche Anteil bei reinem CO₂ bei 1,5 Prozent, mit allen Treibhausgasen bei 1,3 [1][2].
 
 ## Was die Zahlen nicht sagen
 
 - **Keine Schuldfrage.** Die Rechnung ist ein Gedankenexperiment. Sie sagt nichts darüber, welches Land wie viel Verantwortung trägt oder was fair wäre. Sie bewertet auch nicht, ob ein hoher oder niedriger Anteil an Klimapolitik, Wirtschaftsstruktur, Bevölkerungszahl oder am Zufall der Ländergrenzen liegt [1].
-- **Produktion, nicht Konsum.** Die Hauptzahlen zählen Emissionen dort, wo sie entstehen. Für Länder mit hohen Importen emissionsintensiver Güter kann die konsumbasierte Zahl spürbar höher liegen, wie die Variante oben zeigt [1].
-- **Nichts zur COP31.** Vom 9. bis 20. November 2026 findet im türkischen Antalya die UN-Klimakonferenz COP31 statt [6]. Was dort verhandelt wird und welche Zusagen die Staaten machen, beantwortet diese Rechnung nicht [2].
+- **Produktion, nicht Konsum.** Die Hauptzahlen zählen Emissionen dort, wo sie entstehen. Für Länder mit hohen Importen emissionsintensiver Güter kann die konsumbasierte Zahl spürbar höher liegen (siehe die konsumbasierte Variante oben, die allerdings nicht direkt vergleichbar ist) [1].
+- **Nichts zur COP31.** Anlass unseres Stücks war die UN-Klimakonferenz COP31 (9. bis 20. November 2026 in Antalya, laut UNFCCC-Zeitplan) [6]. Was dort verhandelt wurde und welche Zusagen die Staaten gemacht haben, beantwortet diese Rechnung nicht [2].
 
 ## Was heißt das für dich?
 
 - Ein Anteil in Prozent lässt sich erst einordnen, wenn klar ist, worauf er sich bezieht: auf welches Jahr, auf welche Gase und darauf, ob Emissionen dort gezählt werden, wo sie entstehen, oder dort, wo die Güter verbraucht werden.
-- Wer Prozentzahlen aus verschiedenen Quellen vergleicht, sollte prüfen, ob sie auf derselben Basis stehen. Hinter „zwei Prozent“, „1,5 Prozent“ und „1,3 Prozent“ stecken keine Widersprüche, sondern verschiedene Maßstäbe.
-- „Zu klein, um zu zählen“ funktioniert als Argument nur, solange es nicht alle sagen. Ob ein einzelner Anteil zählt, hängt auch davon ab, wie viele andere in derselben Lage sind. Ob daraus eine Pflicht zum Handeln folgt, beantwortet die Rechnung nicht.
+- Wer Prozentzahlen aus verschiedenen Quellen vergleicht, sollte prüfen, ob sie auf derselben Basis stehen. Die Zahlen „zwei Prozent“, „1,5 Prozent“ und „1,3 Prozent“ beziehen sich auf verschiedene Quellen, Gase und Jahre. Vergleichbar sind nur Zahlen mit derselben Basis.
+- Unser Gedankenexperiment legt nahe: „Zu klein, um zu zählen“ funktioniert nur, solange es nicht alle sagen. Ob ein einzelner Anteil zählt, ist auch eine Frage danach, wie viele andere in derselben Lage sind. Was daraus für das Handeln folgt, beantwortet die Rechnung nicht.
 
 ## Lagen wir richtig?
 
 - **Zahlen:** Seit der Veröffentlichung am 31. August haben wir keine Änderungen an den Kernzahlen vorgenommen. Neuere EDGAR- oder GCP-Daten nennen wir nur mit Quelle und Datum und rechnen sie nicht neu.
-- **Vor der Veröffentlichung gefunden:** Die unabhängige Validierung fand in der ersten Prüfrunde einen kritischen Fehler in einem Datenkonverter. Er führte zu einem falschen Zwischenwert für die historische Kernzahl. Nach der Korrektur wurden alle Kernzahlen unabhängig neu berechnet und bestätigt. Das ist keine nachträgliche Korrektur, zeigt aber, was die Prüfung leistet (mehr dazu in Kapitel 8) [1].
-- **COP31:** Unsere Stücke machen keine Vorhersage zur Konferenz. Was dort beschlossen wird, ist deshalb keine Frage von „richtig oder falsch“ für uns. Einen Ergebnisblock nehmen wir nur auf, wenn bis zum 15. November eine belastbare Primärquelle vorliegt und der Text die Faktenprüfung besteht.
+- **Vor der Veröffentlichung gefunden:** Die unabhängige Validierung fand in der ersten Prüfrunde einen kritischen Fehler in einem Datenkonverter. Er verfälschte die historische Kernzahl sowie die konsumbasierte und die Landnutzungsvariante. Der falsche Wert wurde nie veröffentlicht. Nach der Korrektur wurden die betroffenen Werte unabhängig nachgerechnet und bestätigt, die übrigen waren bereits geprüft. Das ist keine nachträgliche Korrektur (mehr dazu in Kapitel 8) [1].
+- **COP31:** Unsere Stücke machen keine Vorhersage zur Konferenz. Was dort beschlossen wurde, beantwortet diese Rechnung nicht und ist hier nicht ausgewertet.
 
 ## Woher wir das wissen
 
@@ -72,7 +72,7 @@ Die Analyse ist deskriptiv: keine p-Werte, keine Konfidenzintervalle. Sie deckt 
 [2] Klima Kompass · Einordnung: „COP31: Ist Deutschland ‚zu klein, um zu zählen‘?“, 19.10.2026. https://klimaevidenzcheck.substack.com/p/cop31-ist-deutschland-zu-klein-um
 [3] Helmholtz-Klima-Initiative / klimafakten: Behauptung „Deutschland verursacht nur rund zwei Prozent des weltweiten CO2-Ausstoßes. Was wir tun, ist deshalb praktisch irrelevant.“ (laut Seite Daten 2017, Stand April 2021). https://www.helmholtz-klima.de/klimafakten/behauptung-deutschland-verursacht-nur-rund-zwei-prozent-des-weltweiten-co2-ausstosses-was-wir-tun
 [4] WirtschaftsWoche: CO2-Ausstoß Deutschlands, der EU & weltweit im Ländervergleich 2026, 24.02.2026. https://www.wiwo.de/politik/ausland/co2-ausstoss-deutschlands-der-eu-weltweit-im-laendervergleich-2026/29263872.html
-[5] EDGAR – Emissions Database for Global Atmospheric Research (EU JRC); Global Carbon Project, Global Carbon Budget; Weltbank, World Development Indicators; Our World in Data (Zugriff 31.08.2026, wie in [1]).
+[5] Rohdaten der Analyse [1], Zugriff jeweils am 31.08.2026: EDGAR – Emissions Database for Global Atmospheric Research (EU JRC), GHG booklet 2025 (https://edgar.jrc.ec.europa.eu/booklet/EDGAR_2025_GHG_booklet_2025.xlsx); Global Carbon Project, Global Carbon Budget; Weltbank, World Development Indicators; Our World in Data. Editionen und Links im Aufbereitungsprotokoll `Analysen/2026-08-trittbrettfahrer-rechnung/rohdaten/DATENAUFBEREITUNG_LOG.txt`.
 [6] UNFCCC: COP 31 Overview Schedule, Antalya, 9.–20.11.2026. https://unfccc.int/sites/default/files/resource/COP_31_Overview_Schedule.pdf
 
 ---
